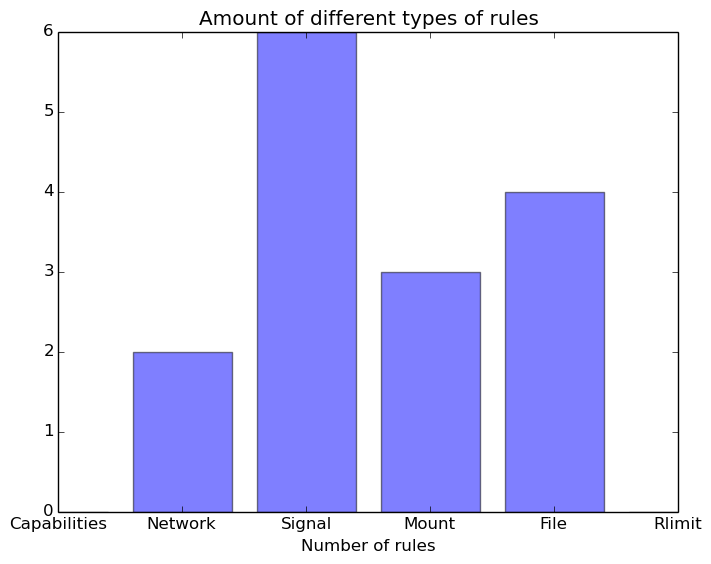
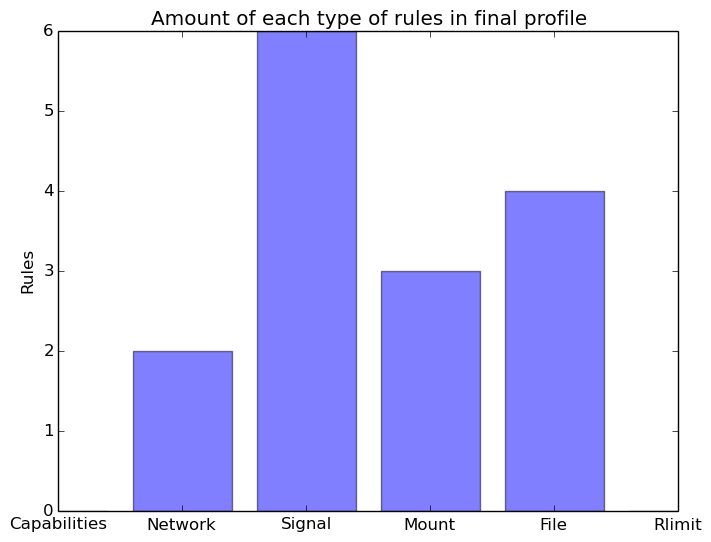
Updated plots in data caching

diff --git a/Benchmarks/data-caching/Parser/metrics/plot_type_rules.py b/Benchmarks/data-caching/Parser/metrics/plot_type_rules.py
@@ -110,6 +110,8 @@ ax.legend(loc='center left', bbox_to_anchor=(1, 0.8),
                   fancybox=True, shadow=True)
 
 #ax.grid()
+
+##1st plot
 ax.set_xlabel("Runs")
 ax.set_ylabel(r"Rules")
 ax.set_ylim(0,max_value+2)
@@ -117,9 +119,7 @@ plt.show()
 plt.title("Type of rules per run")
 output = "../../parser_output/types_" + service + ".png"
 plt.savefig(output,bbox_inches="tight")
-
-enforce = 5 #Read this from bash script 
-
+###
 fig = plt.figure()
 
 ##Bars
@@ -138,11 +138,12 @@ barlist.append(mount[-1])
 barlist.append(file_rules[-1])
 barlist.append(rlimit[-1])
 
+max_value=max(barlist)
 plt.bar(y_pos, barlist, align='center', alpha=0.5)
 plt.xticks(y_pos, objects)
 ax.set_ylim(0,max_value+0.5)
-plt.xlabel('Number of rules')
-plt.title('Amount of different types of rules')
+plt.ylabel('Rules')
+plt.title('Amount of each type of rules in final profile')
 plt.show()
 
 #box = ax.get_position()
@@ -302,6 +303,6 @@ ax6.set_ylim(0,max_value+2)
 box = ax1.get_position()
 ax1.legend(loc='lower left', bbox_to_anchor=(0,1.02,1, 0.2), ncol=2, fancybox=True, shadow=True, mode="expand")
 
-plt.show()
-output = "../../parser_output/ce_types_" + service + ".png"
-plt.savefig(output,bbox_inches="tight")
+#plt.show()
+#output = "../../parser_output/ce_types_" + service + ".png"
+#plt.savefig(output,bbox_inches="tight")
